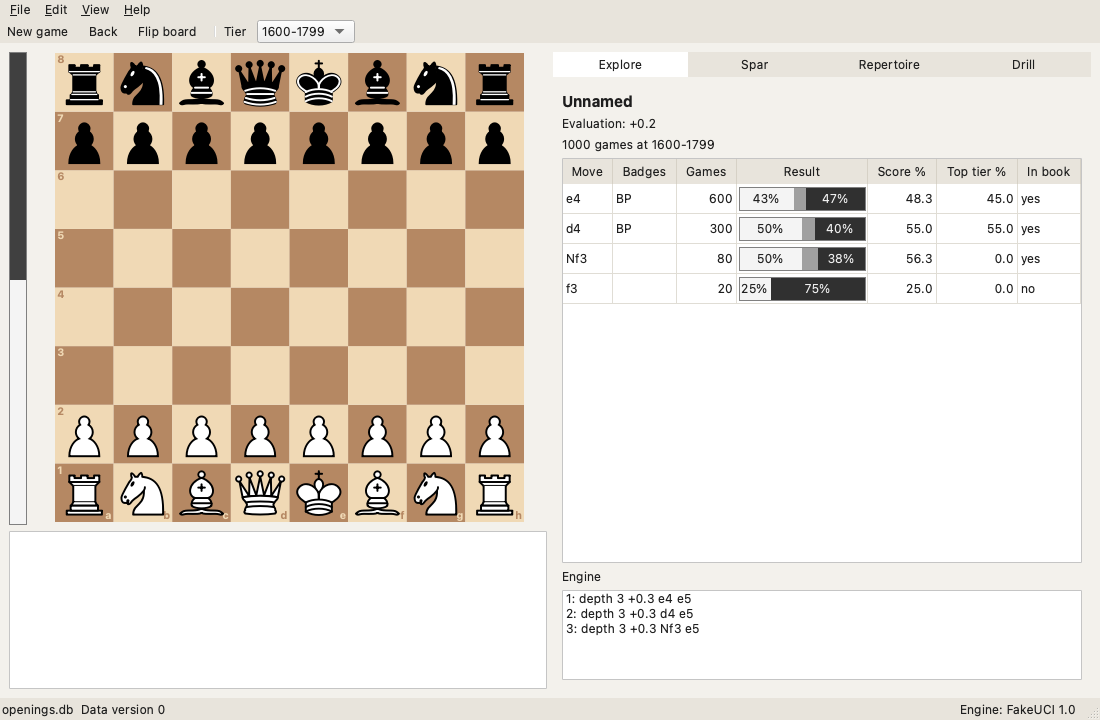
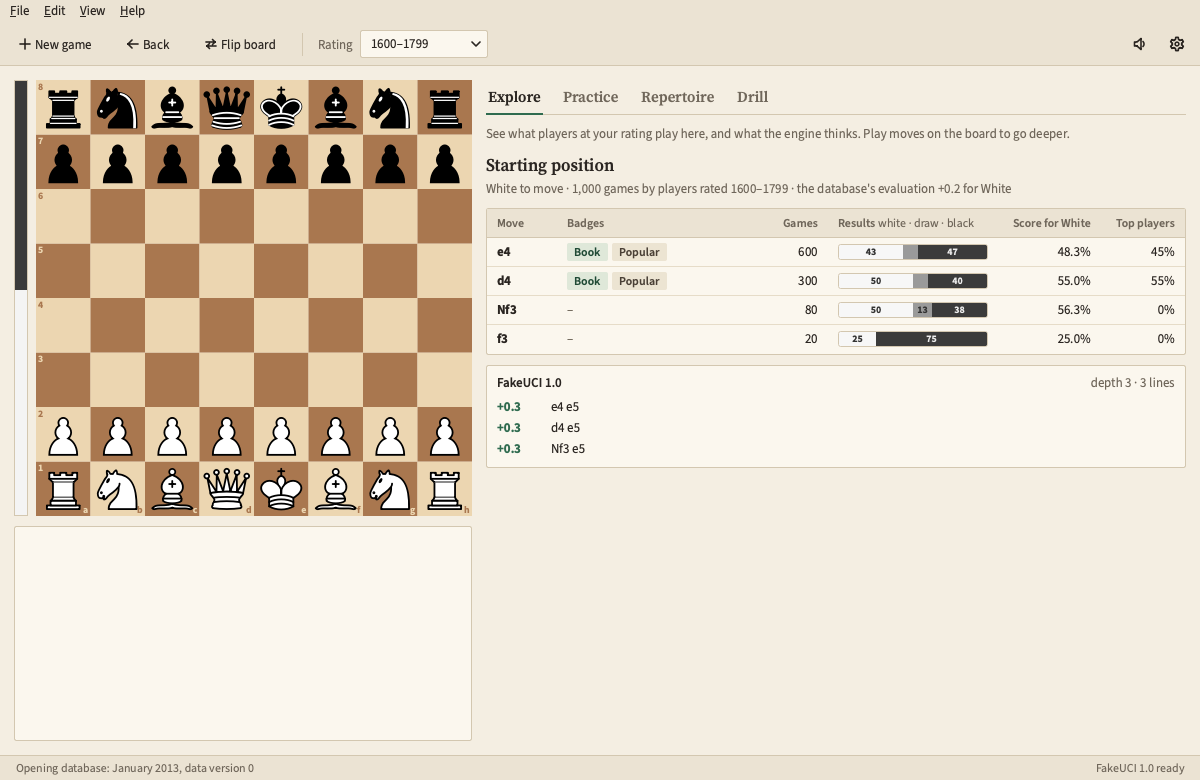
docs: Show the Study look in the README and record Phase 7 as landed
The five README screenshots are the UI harness's from the batch gate on the Study look, and the map's status says the UI/UX pass landed, that Phase 8 is next and that the tag waits for it.

diff --git a/CLAUDE.md b/CLAUDE.md
@@ -21,9 +21,10 @@ heading of this file or of a doc.
 
 ## Status
 
-**Phases 0 to 4 are complete and Phase 5's `core`, CLI and app screens have landed; Phase 6's
-release remains.** The skeleton (presets, the gate, the boundary
-check, CI on macOS and Ubuntu; `docs/reference/testing-tools.md`); the data contract
+**Phases 0 to 6 are complete and version 1.0.0 is on `main`, untagged on purpose; Phase 7, the
+UI/UX pass, landed on 2026-11-04 and Phase 8, performance and cleanup, is next; the `v1.0.0` tag
+waits for it.** The skeleton (presets, the gate, the
+boundary check, CI on macOS and Ubuntu; `docs/reference/testing-tools.md`); the data contract
 (`docs/database.md`); `core` (the position key, `Position` over chess-library, tiers, badges,
 names, the read-only opening store and the canonical dump, the recommendation score, the UCI
 engine client with its fake engine, the profile store with the engine cache, spar sessions,
@@ -31,24 +32,26 @@ repertoires, cards and reviews across `profiles.db` versions 1 to 3, the sampler
 session, the engine reply provider, the SM-2 scheduler, repertoire coverage, PGN import, profile
 export and import, the opening database's locator and import; `docs/reference/core.md`); the
 pipeline (`chess-coach-pipeline build`, two passes with a count-min sketch, the evaluation merge,
-badges, names, the sample corpus and its golden dump, the benchmark; `docs/reference/pipeline.md`);
-the CLI (`dump`, `stats`, `explore` with `--score` and `--engine`, `name`, `eval`, `spar`,
-`repertoire`, `drill`, `profile`, `database`, with `--db` optional beside `--data-dir`;
-`docs/reference/cli.md`); the app (the board, the shell, Explore on a database worker with the
-engine worker's lines and cancellation, the Spar screen on a spar worker, the Repertoire and
-Drill screens on a profile worker with profile export and import, the opening database found
-through `--db`, the data directory and the app bundle and imported with File > Import database…,
-the bundled Stockfish found by itself, themes, settings in `<data-dir>/settings.ini`, About, the
-UI harness with screenshots; `docs/reference/app.md`);
-and the macOS package with Qt, Stockfish and the published opening database inside (the one
-`data/release/bundled.txt` names), the licence texts in `legal/`, `tools/package.sh` and the
-tag-triggered release workflow (`docs/reference/testing-tools.md`);
+badges, names, the sample corpus and its golden dump, the benchmark, `trim`;
+`docs/reference/pipeline.md`); the CLI (`dump`, `stats`, `explore` with `--score` and `--engine`,
+`name`, `eval`, `spar`, `repertoire`, `drill`, `profile`, `database`, with `--db` optional beside
+`--data-dir`; `docs/reference/cli.md`); the app (the board, the shell, Explore on a database
+worker with the engine worker's lines and cancellation, the Practice screen (the Spar screen's
+label in the app) on a spar worker, the Repertoire and Drill screens on a profile worker with
+backup and restore, the opening database found through `--db`, the data directory and the app
+bundle and imported with File > Import database, the bundled Stockfish found by itself, the
+**Study** look (paper and night themes from `app/src/study_palette.hpp` and the stylesheets,
+Source Serif 4 and Source Sans 3 bundled, our own icons, Fusion on every platform), plain
+language throughout with Help > How to use chess-coach, sounds through our own `NSSound` backend
+with a toggle, settings in `<data-dir>/settings.ini`, About, the UI harness with screenshots;
+`docs/reference/app.md`); the macOS package with Qt, Stockfish and the published opening database
+inside (the one `data/release/bundled.txt` names), the licence texts in `legal/`,
+`tools/package.sh` and the tag-triggered release workflow (`docs/reference/testing-tools.md`);
 and the release-database tooling, `tools/build_release_db.sh` and `tools/verify_db.sh`
-(`docs/reference/pipeline.md`, **Release database**; `data/release/README.md`). In progress: the
-review folds, the public-milestone files, and the release database (a recent month builds on the
-owner's machine). `PLAN.md` §7 lists the seven phases with their sizes, §6
-the data, §9 the process, §11 the decisions, §12 the resolved questions and §14 the deferred
-path.
+(`docs/reference/pipeline.md`, **Release database**; `data/release/README.md`), with data
+version 1 (October 2026) published as the `data-v1` release. `PLAN.md` §7 lists the phases with
+their sizes (Phases 7 and 8 at the end), §6 the data, §9 the process, §11 the decisions, §12 the
+resolved questions and §14 the deferred path.
 
 ## Stack (pinned)
 
